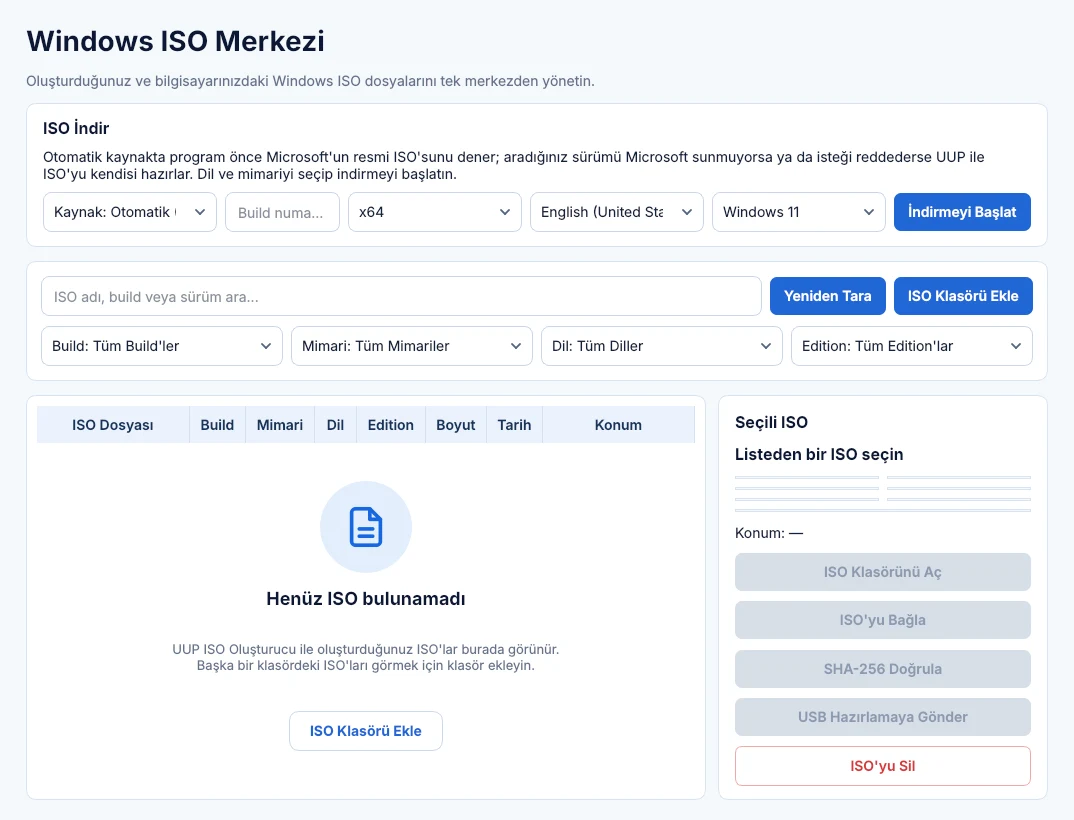
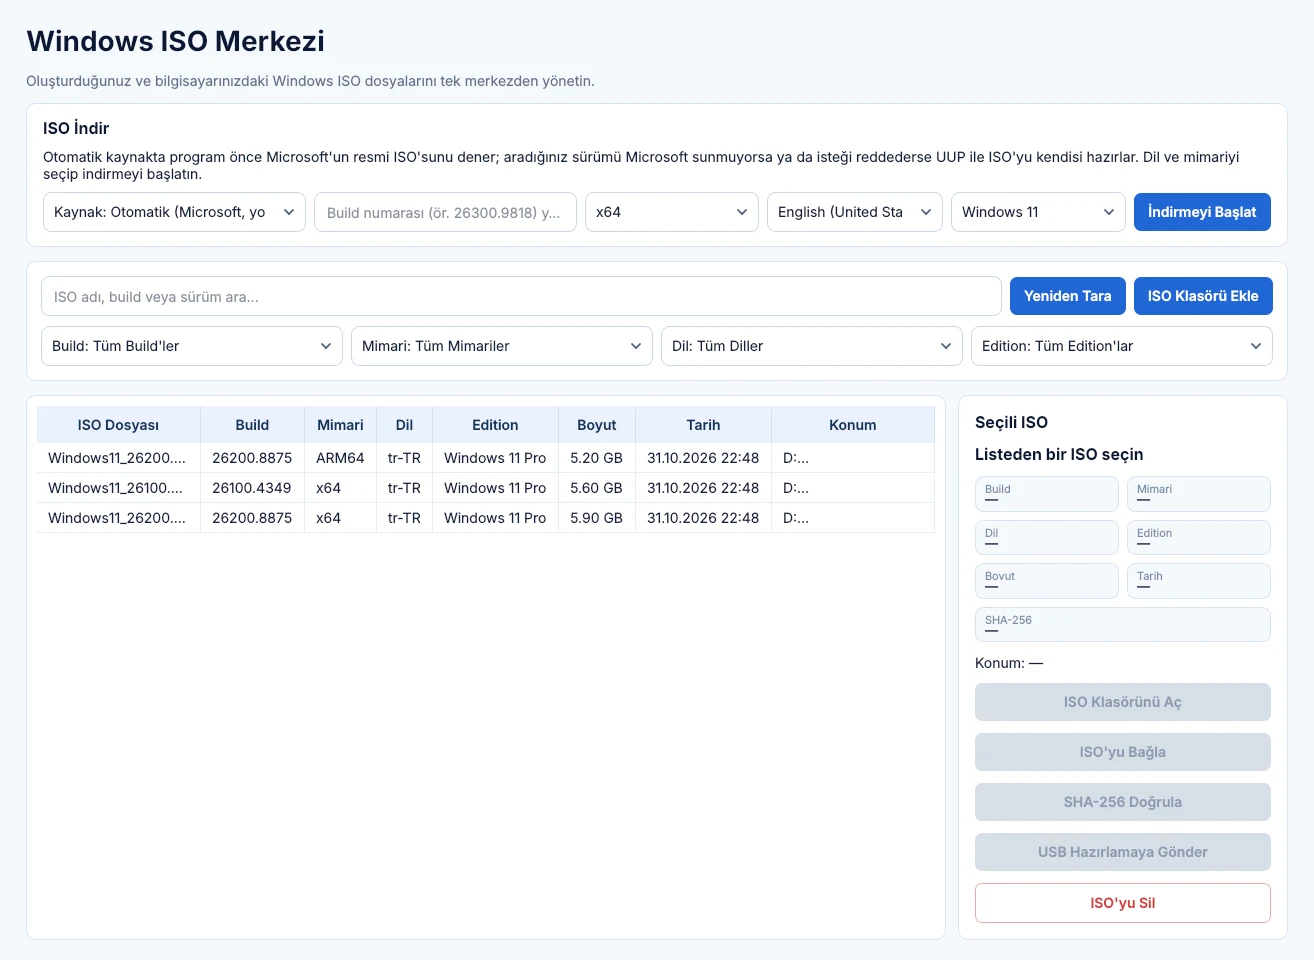
Site: dolu ekran goruntuleri (ornek veriyle) ve surucu yedekleme gorseli
Claude-Session: https://claude.ai/code/session_01NkDxjoAZeKWhrtJYeqHJ8r

diff --git a/docs/index.html b/docs/index.html
@@ -173,7 +173,7 @@ a:focus-visible,button:focus-visible,summary:focus-visible{outline:3px solid var
       <li>Açık ve koyu tema</li>
     </ul>
     <div class="hero-shot" data-zoom="assets/guncelleme-merkezi.webp" role="button" tabindex="0" aria-label="Güncelleme Merkezi ekran görüntüsünü büyüt">
-      <img src="assets/guncelleme-merkezi.webp" alt="Güncelleme Merkezi: KB numarası veya build ile arama ekranı" width="1074" height="820">
+      <img src="assets/guncelleme-merkezi.webp" alt="Güncelleme Merkezi: KB numarası veya build ile arama ekranı" width="1314" height="960">
     </div>
   </div>
 </section>
@@ -197,19 +197,19 @@ a:focus-visible,button:focus-visible,summary:focus-visible{outline:3px solid var
     <p class="sub">Büyütmek için görsele tıkla.</p>
     <div class="shots">
       <figure>
-        <div class="frame" data-zoom="assets/guncelleme-merkezi.webp" role="button" tabindex="0"><img loading="lazy" src="assets/guncelleme-merkezi.webp" alt="Güncelleme Merkezi" width="1074" height="820"></div>
+        <div class="frame" data-zoom="assets/guncelleme-merkezi.webp" role="button" tabindex="0"><img loading="lazy" src="assets/guncelleme-merkezi.webp" alt="Güncelleme Merkezi" width="1314" height="960"></div>
         <figcaption><b>Güncelleme Merkezi.</b> KB, build veya sürüm adıyla ara; kaynak, tür, mimari ve dile göre süz.</figcaption>
       </figure>
       <figure>
-        <div class="frame" data-zoom="assets/iso-merkezi.webp" role="button" tabindex="0"><img loading="lazy" src="assets/iso-merkezi.webp" alt="ISO Merkezi" width="1074" height="820"></div>
+        <div class="frame" data-zoom="assets/iso-merkezi.webp" role="button" tabindex="0"><img loading="lazy" src="assets/iso-merkezi.webp" alt="ISO Merkezi" width="1314" height="960"></div>
         <figcaption><b>ISO Merkezi.</b> Dil ve mimariyi seçip ISO indir; bilgisayardaki ISO'ları tek yerden yönet, SHA-256 doğrula.</figcaption>
       </figure>
       <figure>
-        <div class="frame" data-zoom="assets/indirme-yoneticisi.webp" role="button" tabindex="0"><img loading="lazy" src="assets/indirme-yoneticisi.webp" alt="İndirme Yöneticisi" width="1074" height="820"></div>
+        <div class="frame" data-zoom="assets/indirme-yoneticisi.webp" role="button" tabindex="0"><img loading="lazy" src="assets/indirme-yoneticisi.webp" alt="İndirme Yöneticisi" width="1314" height="960"></div>
         <figcaption><b>İndirme Yöneticisi.</b> Kuyruk, hız sınırı, eşzamanlı indirme sayısı ve ISO oluşturma durumu bir arada.</figcaption>
       </figure>
       <figure>
-        <div class="frame" data-zoom="assets/usb-kurulum.webp" role="button" tabindex="0"><img loading="lazy" src="assets/usb-kurulum.webp" alt="USB Kurulum Aracı" width="1074" height="820"></div>
+        <div class="frame" data-zoom="assets/usb-kurulum.webp" role="button" tabindex="0"><img loading="lazy" src="assets/usb-kurulum.webp" alt="USB Kurulum Aracı" width="1314" height="960"></div>
         <figcaption><b>USB Kurulum Aracı.</b> ISO'yu seç, USB'yi seç, bölüm düzenini belirle; adım adım ilerlemeyi izle.</figcaption>
       </figure>
     </div>
